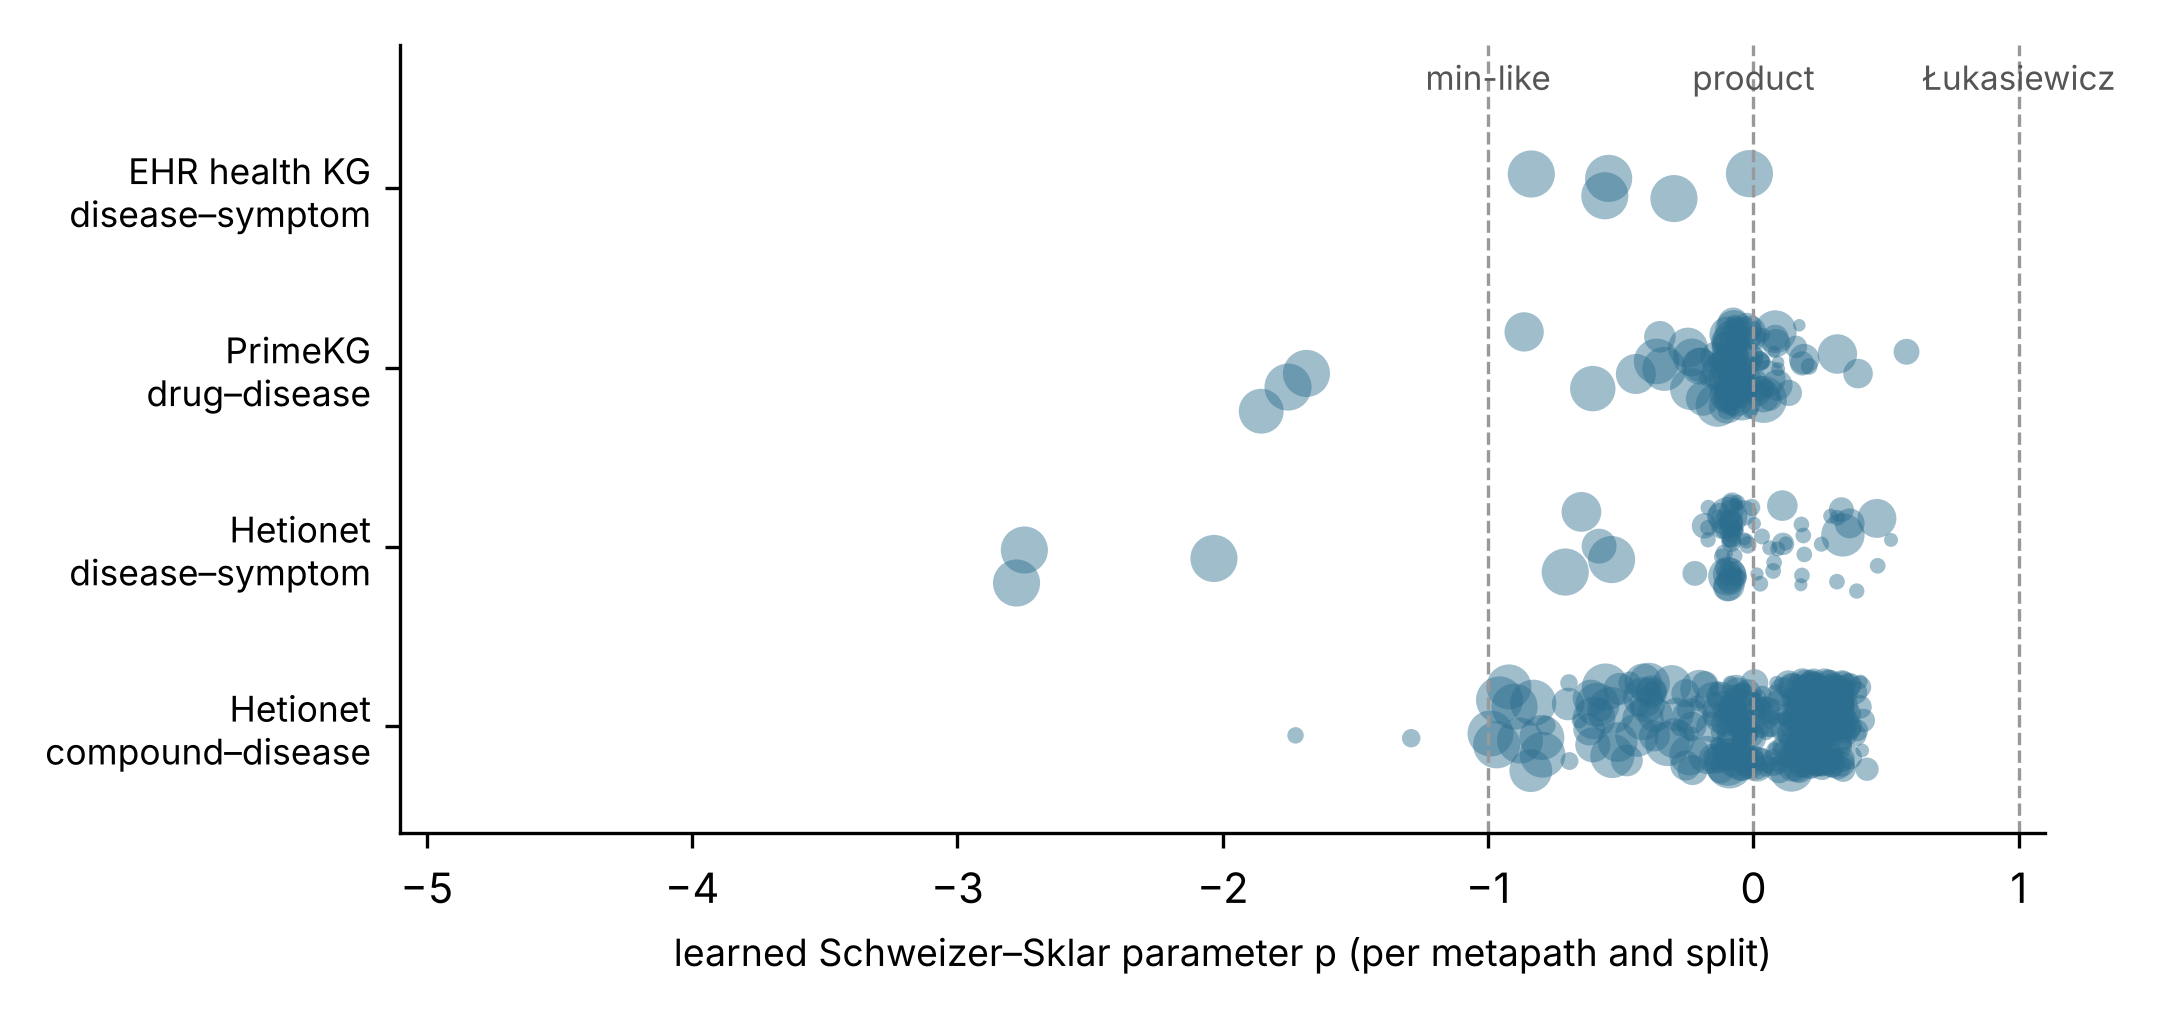
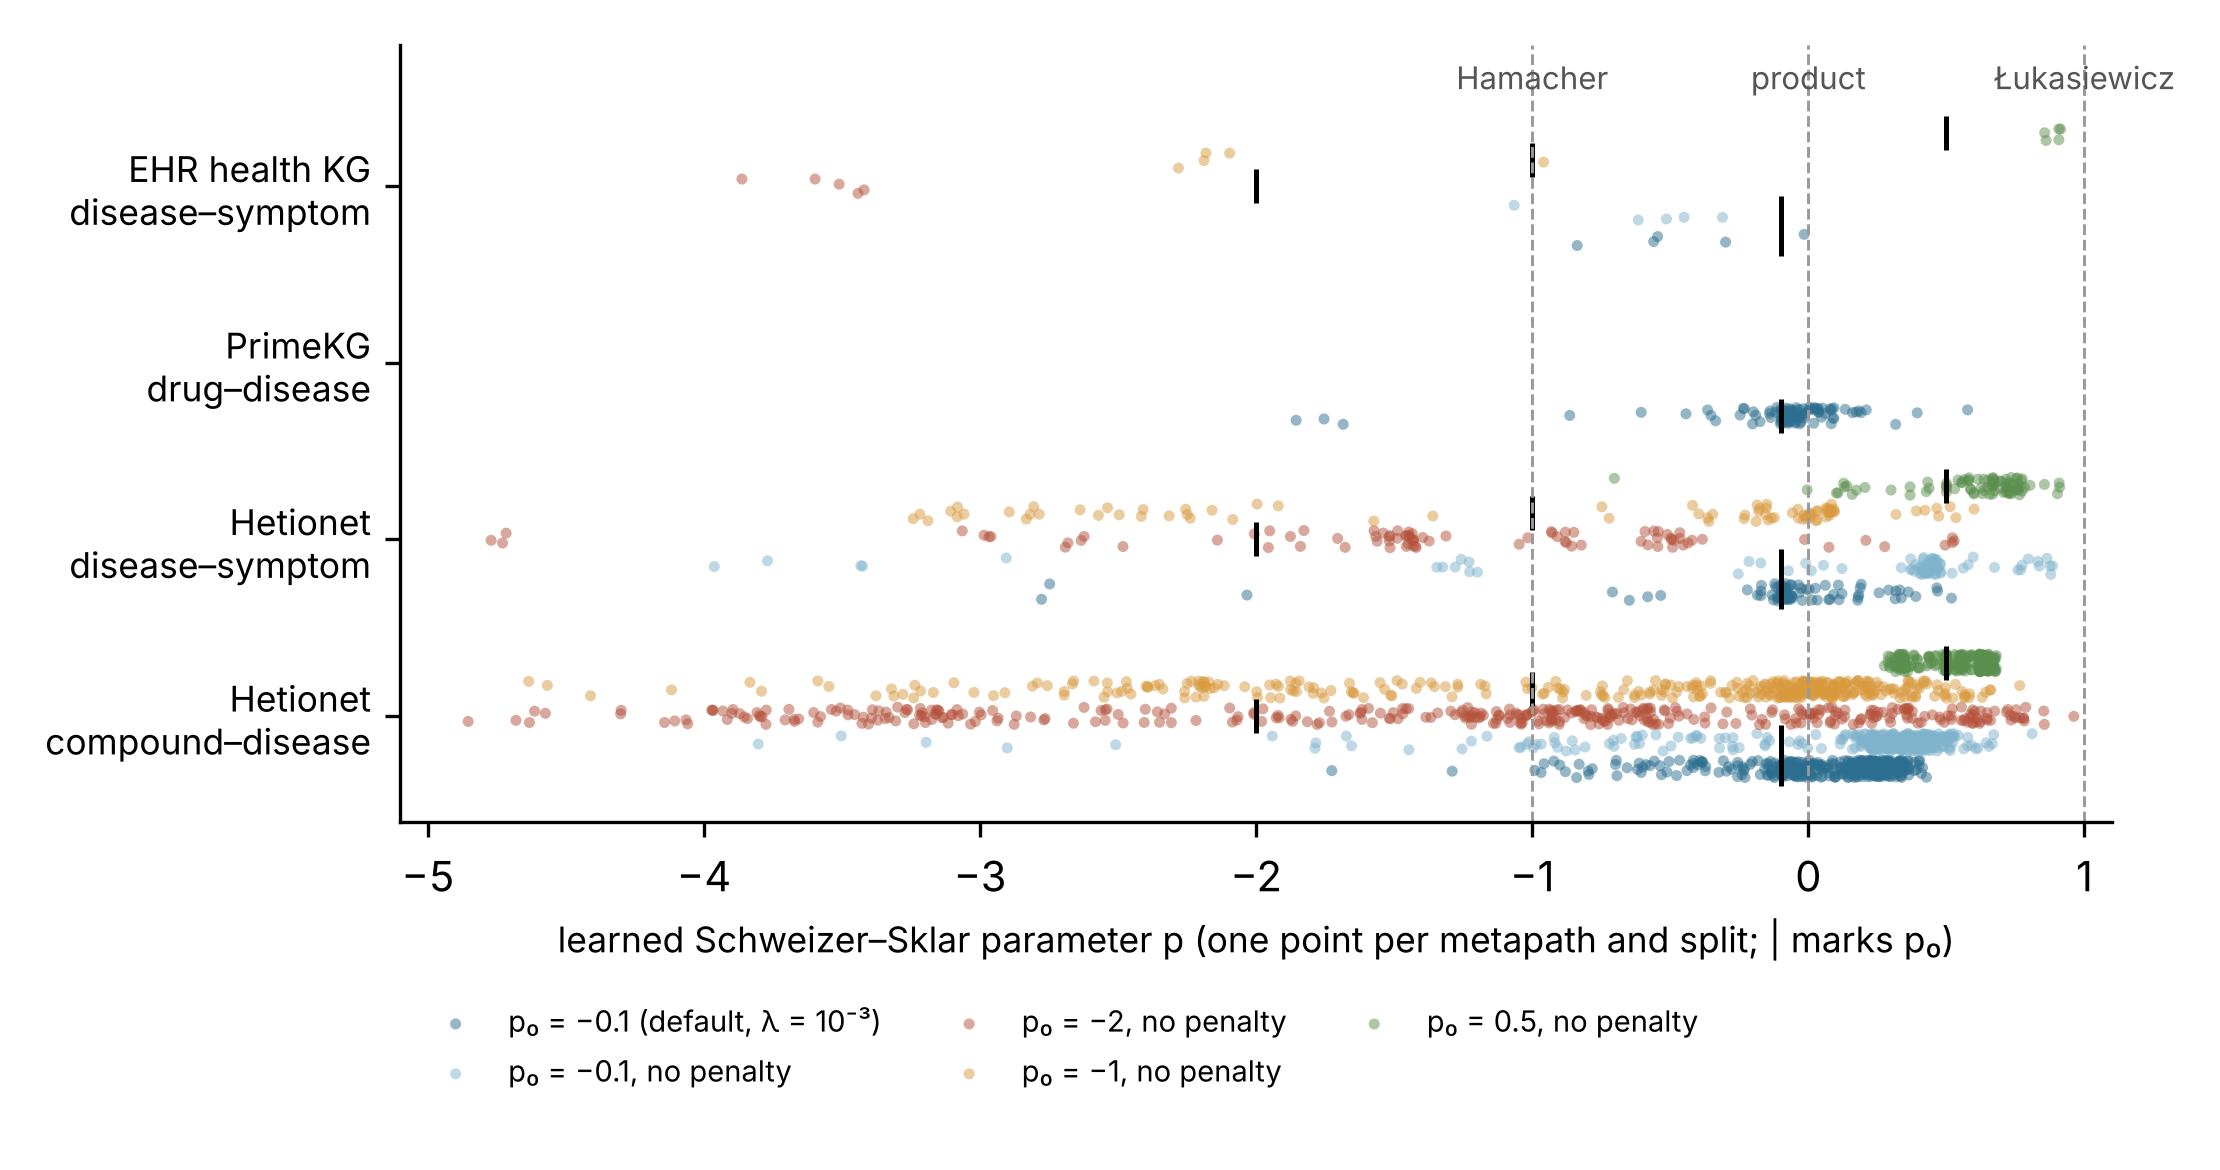
Figure 2: learned p by initial value and penalty; read results location from DNFR_RESULTS
Claude-Session: https://claude.ai/code/session_01VA5dnmyNKnrtahPTvqcXao

diff --git a/figures/make_figures.py b/figures/make_figures.py
@@ -6,13 +6,16 @@ import matplotlib.pyplot as plt
 
 import os
 ROOT = os.path.dirname(os.path.dirname(os.path.abspath(__file__)))
-R = os.path.join(ROOT, "results")
+R = os.environ.get("DNFR_RESULTS", os.path.join(ROOT, "results"))
 TASKS = [("het_CtD", "Hetionet\ncompound–disease"), ("het_DpS", "Hetionet\ndisease–symptom"),
          ("pkg_ind", "PrimeKG\ndrug–disease"), ("hkg_DpS", "EHR health KG\ndisease–symptom")]
 ink, acc = "#1f2a36", "#2c6e8f"
 
-# Figure 2: learned p per metapath
-fig, ax = plt.subplots(figsize=(7.2, 3.4))
+# Figure 2: learned p per metapath and split, for each initial value p0 (no penalty except the default)
+VAR = [("dnfr", -0.1, "p₀ = −0.1 (default, λ = 10⁻³)", "#2c6e8f"), ("dnfr_l2_0", -0.1, "p₀ = −0.1, no penalty", "#7fb3cc"),
+       ("dnfr_pm2", -2.0, "p₀ = −2, no penalty", "#b5523b"), ("dnfr_pm1", -1.0, "p₀ = −1, no penalty", "#d99a3e"),
+       ("dnfr_pp05", 0.5, "p₀ = 0.5, no penalty", "#5a8f4e")]
+fig, ax = plt.subplots(figsize=(7.4, 3.9))
 rng = np.random.default_rng(0)
 yt = []
 for i, (t, lab) in enumerate(TASKS):
@@ -20,18 +23,32 @@ for i, (t, lab) in enumerate(TASKS):
     if not os.path.exists(f):
         continue
     d = json.load(open(f))
-    for r in d["runs"]:
-        if "dnfr_params" not in r:
+    for j, (v, p0, vl, col) in enumerate(VAR):
+        ps = []
+        for r in d["runs"]:
+            if v in r.get("p_learned", {}):
+                ps += r["p_learned"][v]
+            elif v == "dnfr" and "dnfr_params" in r:
+                ps += r["dnfr_params"]["p"]
+        if not ps:
             continue
-        p = np.array(r["dnfr_params"]["p"]); w = 1 / (1 + np.exp(-np.array(r["dnfr_params"]["w_raw"])))
-        ax.scatter(p, i + rng.uniform(-0.25, 0.25, len(p)), s=8 + 120 * w / max(w.max(), 1e-9), alpha=0.45, color=acc, edgecolor="none")
+        y = i + (j - 2) * 0.15 + rng.uniform(-0.05, 0.05, len(ps))
+        ax.scatter(ps, y, s=7, alpha=0.5, color=col, edgecolor="none", label=vl if i == 0 or t == "het_DpS" else None)
+        ax.plot([p0], [i + (j - 2) * 0.15], marker="|", color="black", ms=8, mew=1.2)
     yt.append((i, lab))
-for x, lab in [(-1, "min-like"), (0, "product"), (1, "Łukasiewicz")]:
-    ax.axvline(x, color="#999999", lw=0.8, ls="--"); ax.text(x, len(TASKS) - 0.45, lab, ha="center", fontsize=8, color="#555555")
+h, l = ax.get_legend_handles_labels(); seen = {}
+for hh, ll in zip(h, l):
+    seen.setdefault(ll, hh)
+ax.legend(seen.values(), seen.keys(), fontsize=7, frameon=False, loc="upper left", bbox_to_anchor=(0.0, -0.2), ncol=3)
+for x in (-1, 0, 1):
+    ax.axvline(x, color="#999999", lw=0.7, ls="--")
+ax.text(-1, len(TASKS) - 0.45, "Hamacher", ha="center", fontsize=7.5, color="#555555")
+ax.text(0, len(TASKS) - 0.45, "product", ha="center", fontsize=7.5, color="#555555")
+ax.text(1, len(TASKS) - 0.45, "Łukasiewicz", ha="center", fontsize=7.5, color="#555555")
 ax.set_yticks([i for i, _ in yt]); ax.set_yticklabels([l for _, l in yt], fontsize=8.5)
-ax.set_xlabel("learned Schweizer–Sklar parameter p (per metapath and split)", fontsize=9)
+ax.set_xlabel("learned Schweizer–Sklar parameter p (one point per metapath and split; | marks p₀)", fontsize=8.5)
 ax.set_xlim(-5.1, 1.1); ax.set_ylim(-0.6, len(TASKS) - 0.2)
-for s in ("top", "right"): ax.spines[s].set_visible(False)
+for s_ in ("top", "right"): ax.spines[s_].set_visible(False)
 plt.tight_layout(); plt.savefig(os.path.join(ROOT, "figures", "fig2_p.png"), dpi=300)
 
 # Figure 3: sparsity
